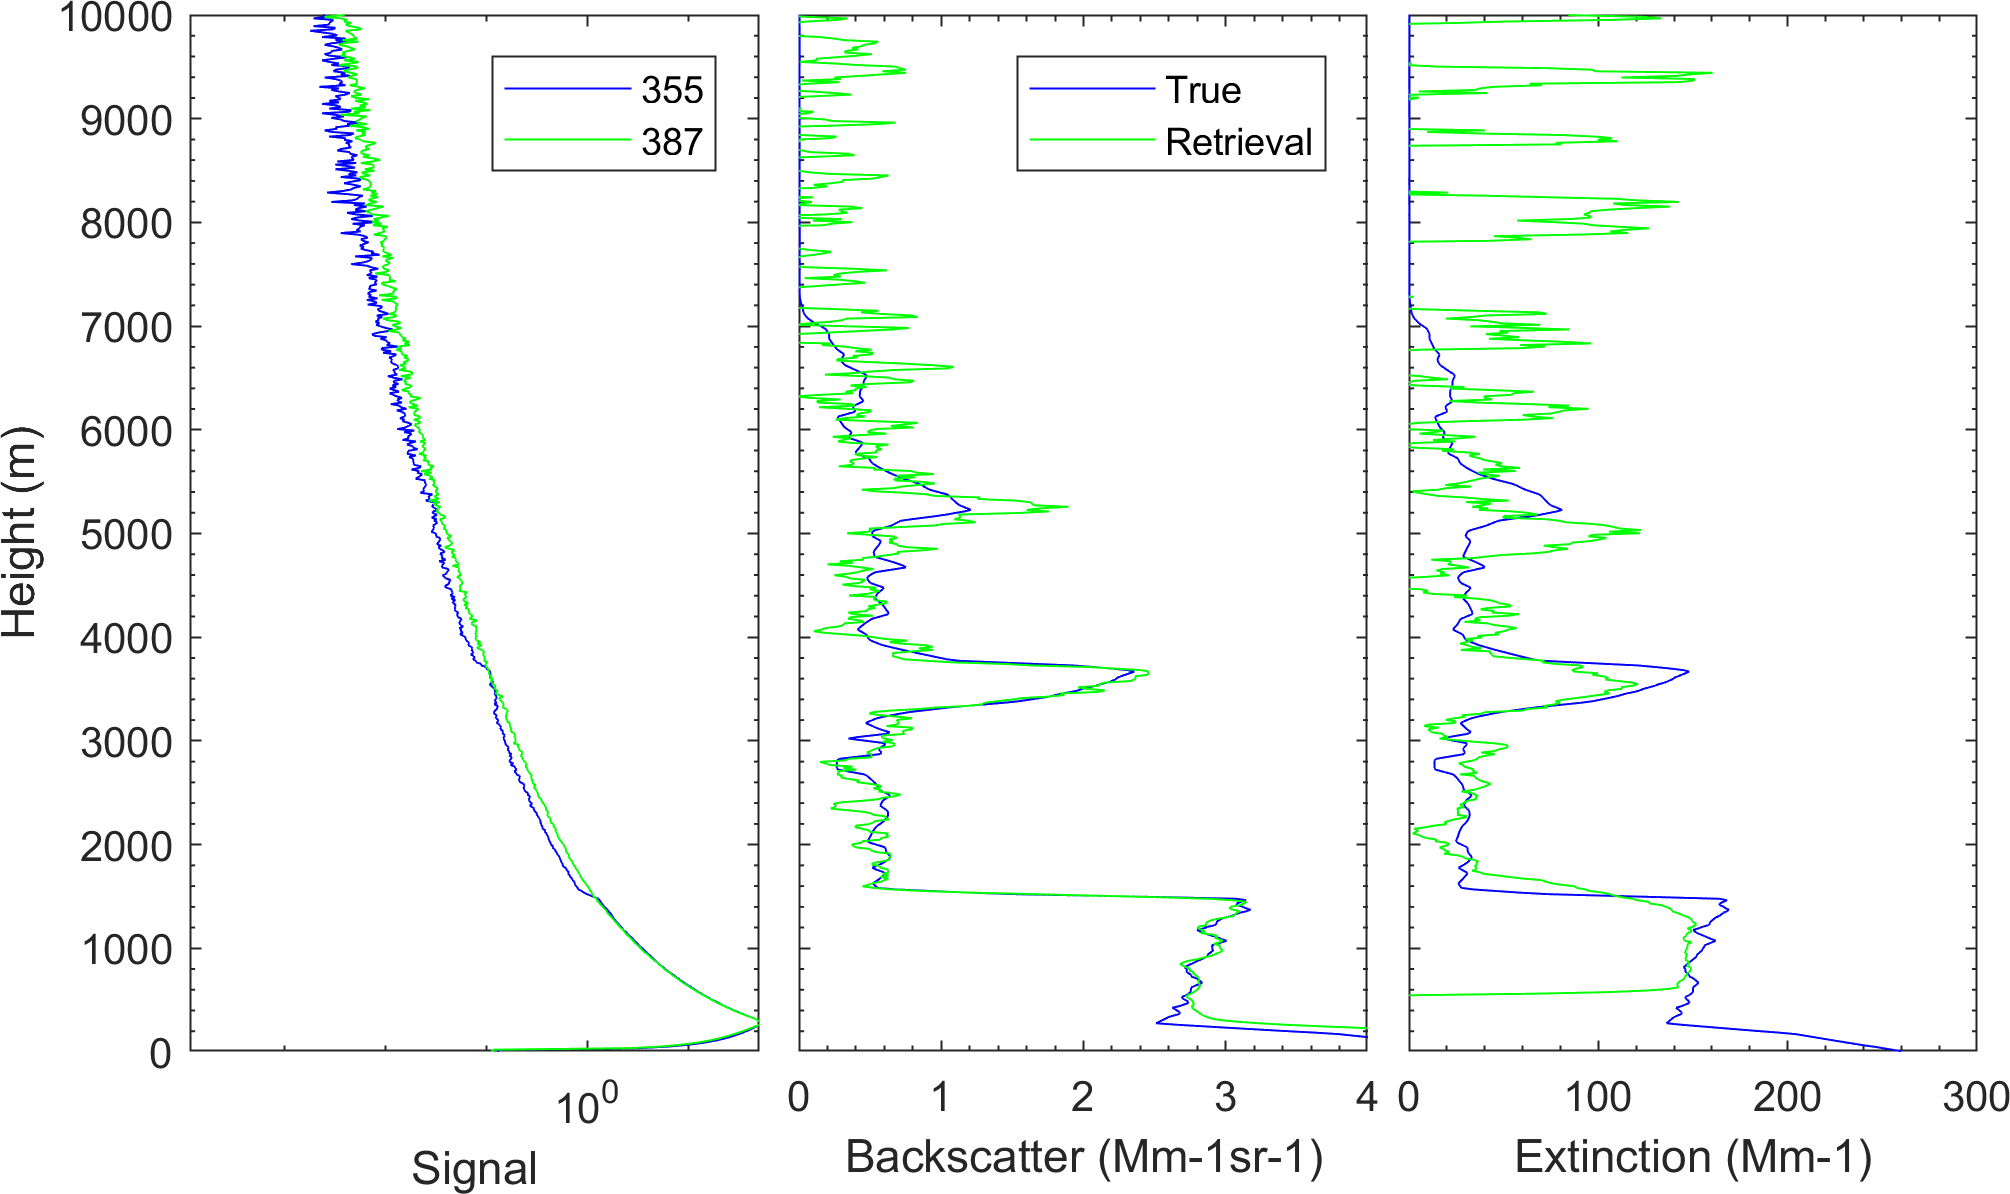
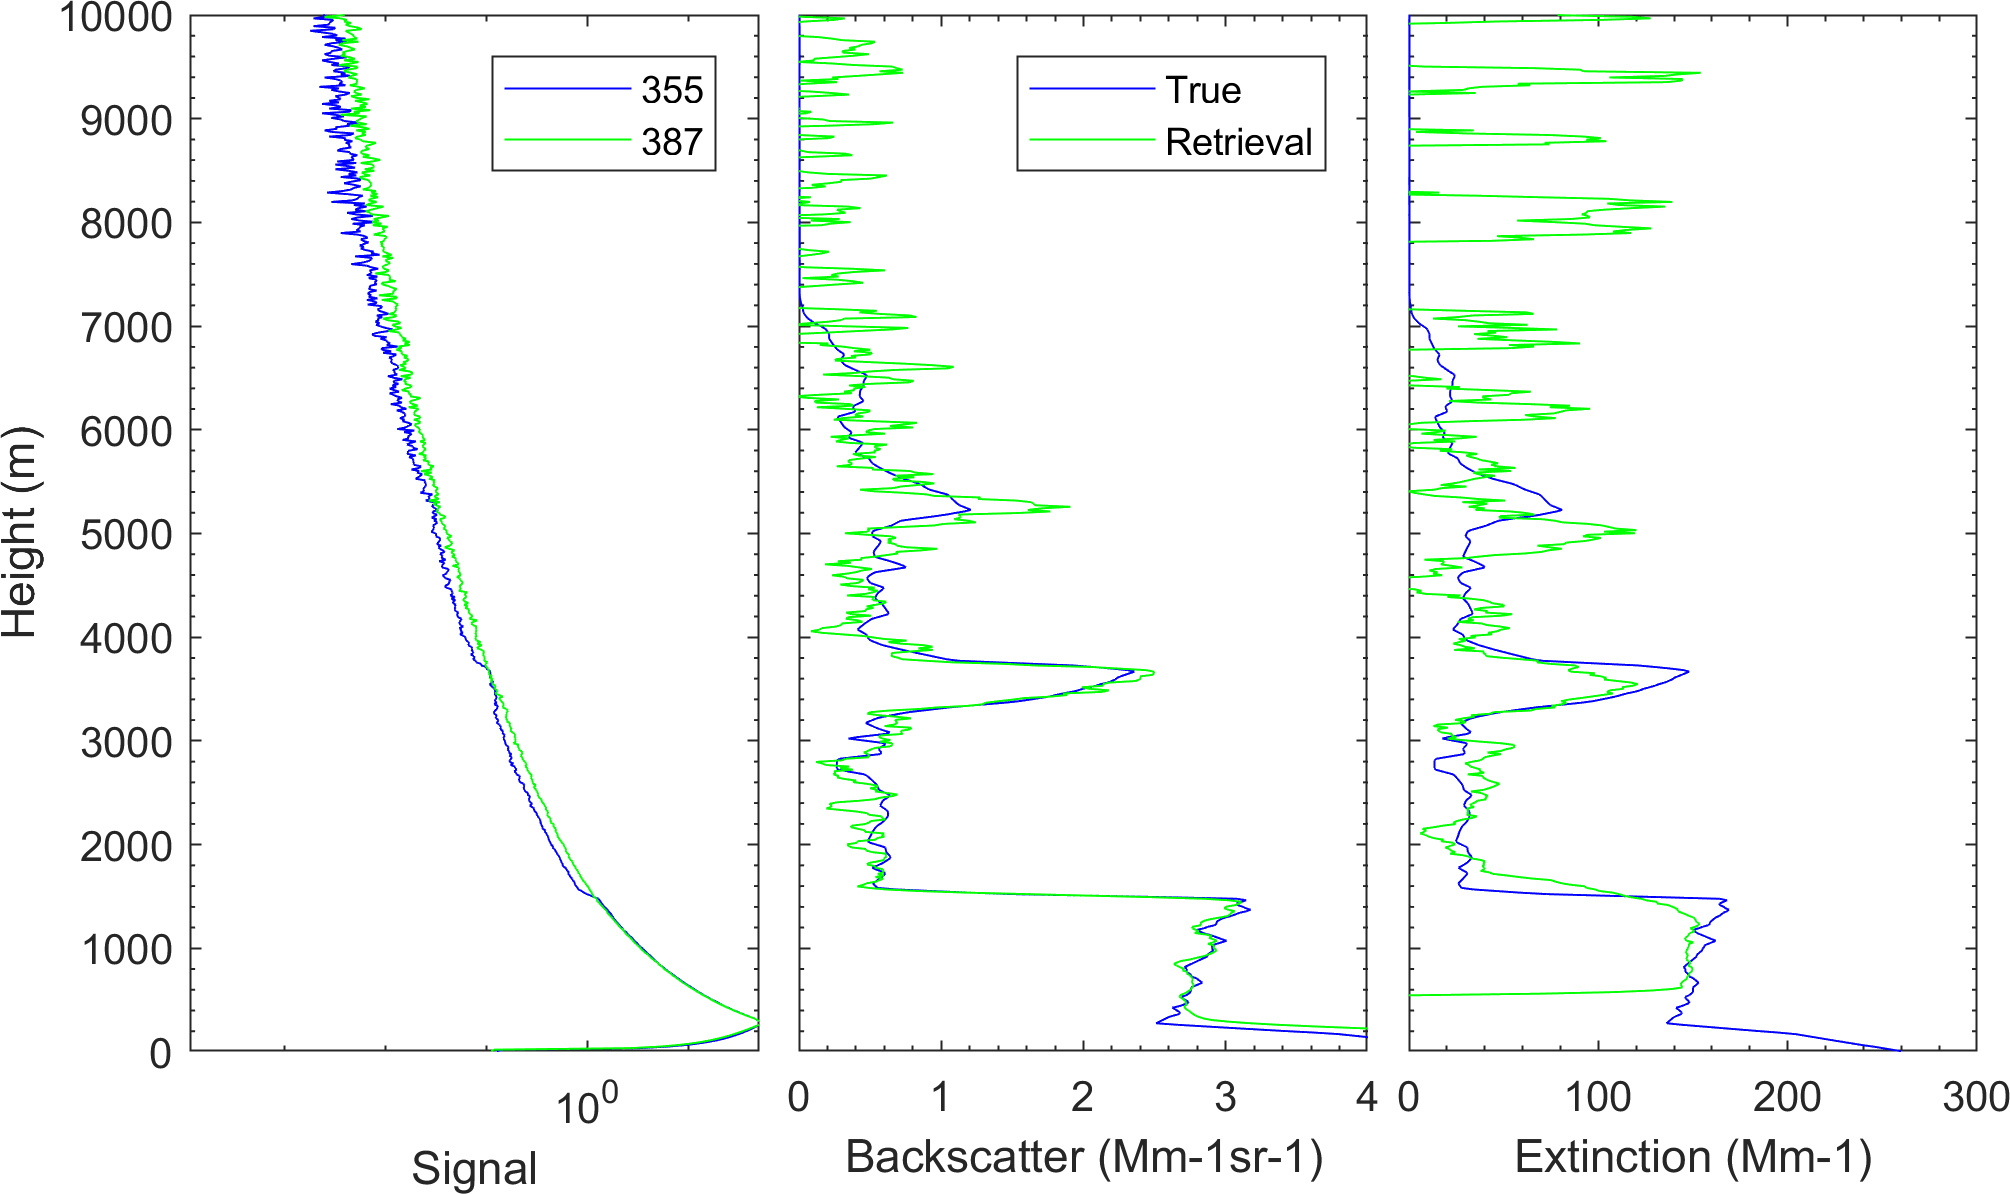
update earlinet cmp

diff --git a/lib/tests/testRetrieval/earlinet_dataset_test.m b/lib/tests/testRetrieval/earlinet_dataset_test.m
@@ -76,14 +76,16 @@ signal532NoBg = signal532 - nanmean(signal532(1800:1900));
 signal607NoBg = signal607 - nanmean(signal607(1800:1900));
 
 %% Molecular scattering
+[temperature, pressure, ~, ~] = read_meteordata(datenum(0, 1, 0, 0, 0, 0), height355, ...
+'meteor_data', 'standard_atmosphere');
 [mBsc355, mExt355] = rayleigh_scattering(355, pressure, temperature + 273.14, 360, 80);
 [mBsc532, mExt532] = rayleigh_scattering(532, pressure, temperature + 273.14, 360, 80);
 
 %% Raman retrieval
 aExt355 = LidarRamanExt(height355', signal387NoBg', 355, 387, 1, pressure', temperature' + 273.14, 40, 380, 70, 'moving');
 aExt532 = LidarRamanExt(height532', signal607NoBg', 532, 607, 1, pressure', temperature' + 273.14, 40, 380, 70, 'moving');
-[aBsc355, aLR355] = LidarRamanBsc(height355', signal355NoBg', signal387NoBg', aExt355, 1, mExt355', mBsc355', [7000, 8000], 355, 0, 5, true);
-[aBsc532, aLR532] = LidarRamanBsc(height532', signal532NoBg', signal607NoBg', aExt532, 1, mExt532', mBsc532', [7000, 8000], 532, 0, 5, true);
+[aBsc355, aLR355] = LidarRamanBsc(height355', signal355NoBg', signal387NoBg', aExt355, 1, mExt355', mBsc355', [7500, 8500], 355, 0, 5, true);
+[aBsc532, aLR532] = LidarRamanBsc(height532', signal532NoBg', signal607NoBg', aExt532, 1, mExt532', mBsc532', [7500, 8500], 532, 0, 5, true);
 
 %% data visualization
 
